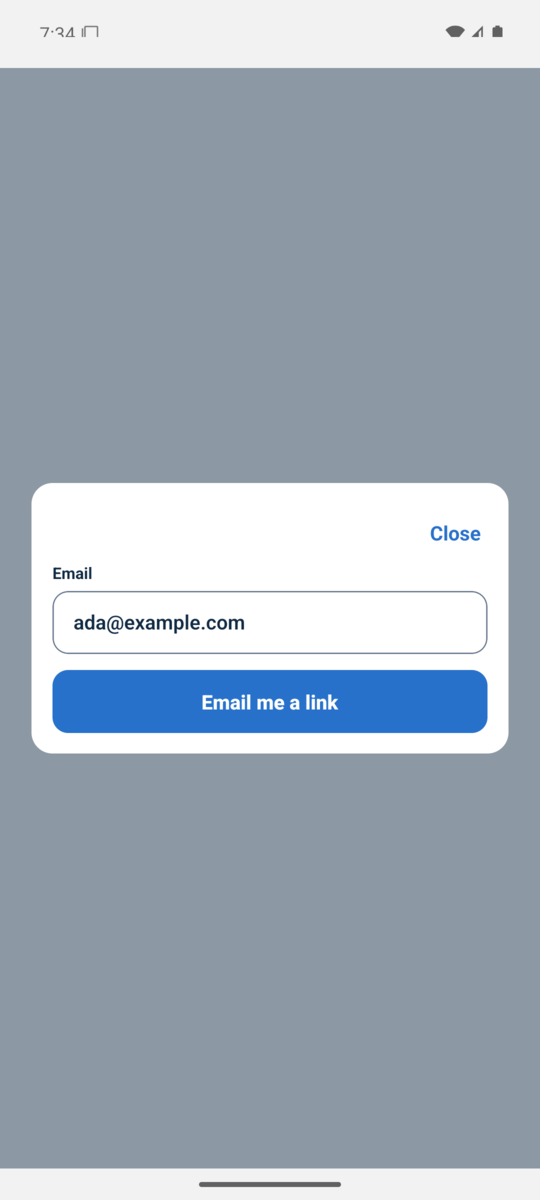
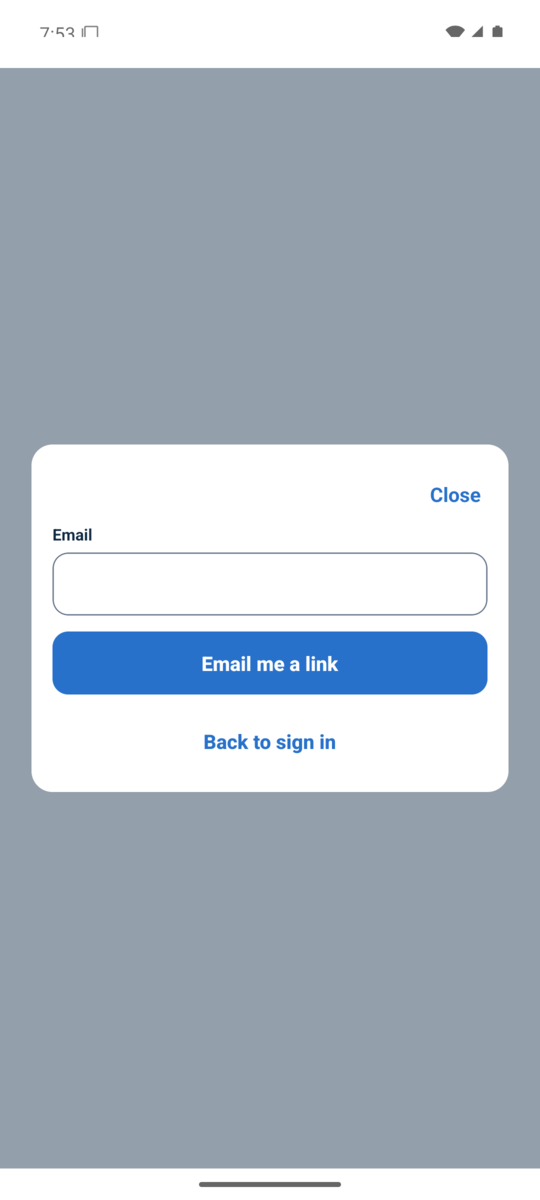
docs(account): rename the C4a shots and show Back to sign in
The evidence check only reads the top of docs/evidence/BIO-65, so the duplicate folder is gone. 1B is the wrong password, 2A is Google loading, and 2B is the Kouri-Vini card. The new Forgot shots show Back to sign in.

Changed region(s): [[0.0593, 0.4317, 0.9481, 0.6783], [0.0593, 0.37, 0.9481, 0.4625], [0.1185, 0.0, 0.1481, 0.0308]]

diff --git a/docs/evidence/BIO-65/c4a-README.md b/docs/evidence/BIO-65/c4a-README.md
@@ -4,18 +4,18 @@ Emulator `emulator-5580` only (`lf-api35`, Expo Go). `emulator-5554` was left al
 
 `SHOW_ACCOUNT_MENU_ENTRY` stays false. The modal is not mounted on Home. These shots use a local harness that is not in this commit. The harness opened first, with a Louisiana French and a Kouri-Vini switch, then one button per sheet. Close returned to the list. Google loading has no Close, so the app was reopened for the next sheet.
 
-Board names below are this pull request's reading of 1A, 1B, 2A, 2B, 4A, and 4B.
+Board names follow the review: 1B is the wrong password, 2A is Google loading, and 2B is the Kouri-Vini sign-in card. The Google failure is not a board number.
 
 ## Click path
 
 1. Harness. Louisiana French is selected (accent `#2771CB`).
 2. Tap **Sign in**. Blue Close, Continue with Google, Email, Password, Sign in, Forgot password.
-3. Tap **Google loading**. Close is gone. A spinner replaces the Google mark. Email, Password, Sign in, and Forgot password are faded.
-4. Tap **Google failed**. "Google sign-in did not finish. Try again." sits above Continue with Google. The fields are open again.
-5. Tap **Wrong password**. The password box is empty and red. The error is "That email or password is not right."
-6. Tap **Forgot**. Email only, then **Email me a link**.
+3. Tap **Wrong password**. The password box is empty and red. The error is "That email or password is not right."
+4. Tap **Google loading**. Close is gone. A spinner replaces the Google mark. Email, Password, Sign in, and Forgot password are faded.
+5. Tap **Google failed**. "Google sign-in did not finish. Try again." sits above Continue with Google. The fields are open again.
+6. Tap **Forgot**. Email only, then **Email me a link**, then **Back to sign in**. The 4A shots were taken again after that link was added.
 7. Tap **Inbox**. **Check your inbox**, and the same reply for every address.
-8. Switch to Kouri-Vini (accent `#08834C`) and repeat those six sheets. Sign in and Email me a link are green.
+8. Switch to Kouri-Vini (accent `#08834C`) and repeat those sheets. Sign in, Email me a link, and Back to sign in are green.
 
 ## Regression
 
@@ -35,15 +35,15 @@ No crash, blank screen, or stuck control on those paths. Recording was not start
 | File | What it shows |
 | --- | --- |
 | c4a-1a-sign-in-lf.png | 1A Sign in, Louisiana French |
-| c4a-1a-sign-in-kv.png | 1A Sign in, Kouri-Vini |
-| c4a-1b-google-loading-lf.png | 1B Google loading, Louisiana French |
-| c4a-1b-google-loading-kv.png | 1B Google loading, Kouri-Vini |
-| c4a-2a-google-failed-lf.png | 2A Google failure, Louisiana French |
-| c4a-2a-google-failed-kv.png | 2A Google failure, Kouri-Vini |
-| c4a-2b-wrong-password-lf.png | 2B Wrong password, Louisiana French |
-| c4a-2b-wrong-password-kv.png | 2B Wrong password, Kouri-Vini |
-| c4a-4a-forgot-lf.png | 4A Forgot, Louisiana French |
-| c4a-4a-forgot-kv.png | 4A Forgot, Kouri-Vini |
+| c4a-2b-sign-in-kv.png | 2B Sign in, Kouri-Vini |
+| c4a-1b-wrong-password-lf.png | 1B Wrong password, Louisiana French |
+| c4a-1b-wrong-password-kv.png | 1B Wrong password, Kouri-Vini |
+| c4a-2a-google-loading-lf.png | 2A Google loading, Louisiana French |
+| c4a-2a-google-loading-kv.png | 2A Google loading, Kouri-Vini |
+| c4a-google-failed-lf.png | Google failure, Louisiana French |
+| c4a-google-failed-kv.png | Google failure, Kouri-Vini |
+| c4a-4a-forgot-lf.png | 4A Forgot, with Back to sign in, Louisiana French |
+| c4a-4a-forgot-kv.png | 4A Forgot, with Back to sign in, Kouri-Vini |
 | c4a-4b-inbox-lf.png | 4B Check your inbox, Louisiana French |
 | c4a-4b-inbox-kv.png | 4B Check your inbox, Kouri-Vini |
 | regression-home.png | Home after choosing Louisiana French |
